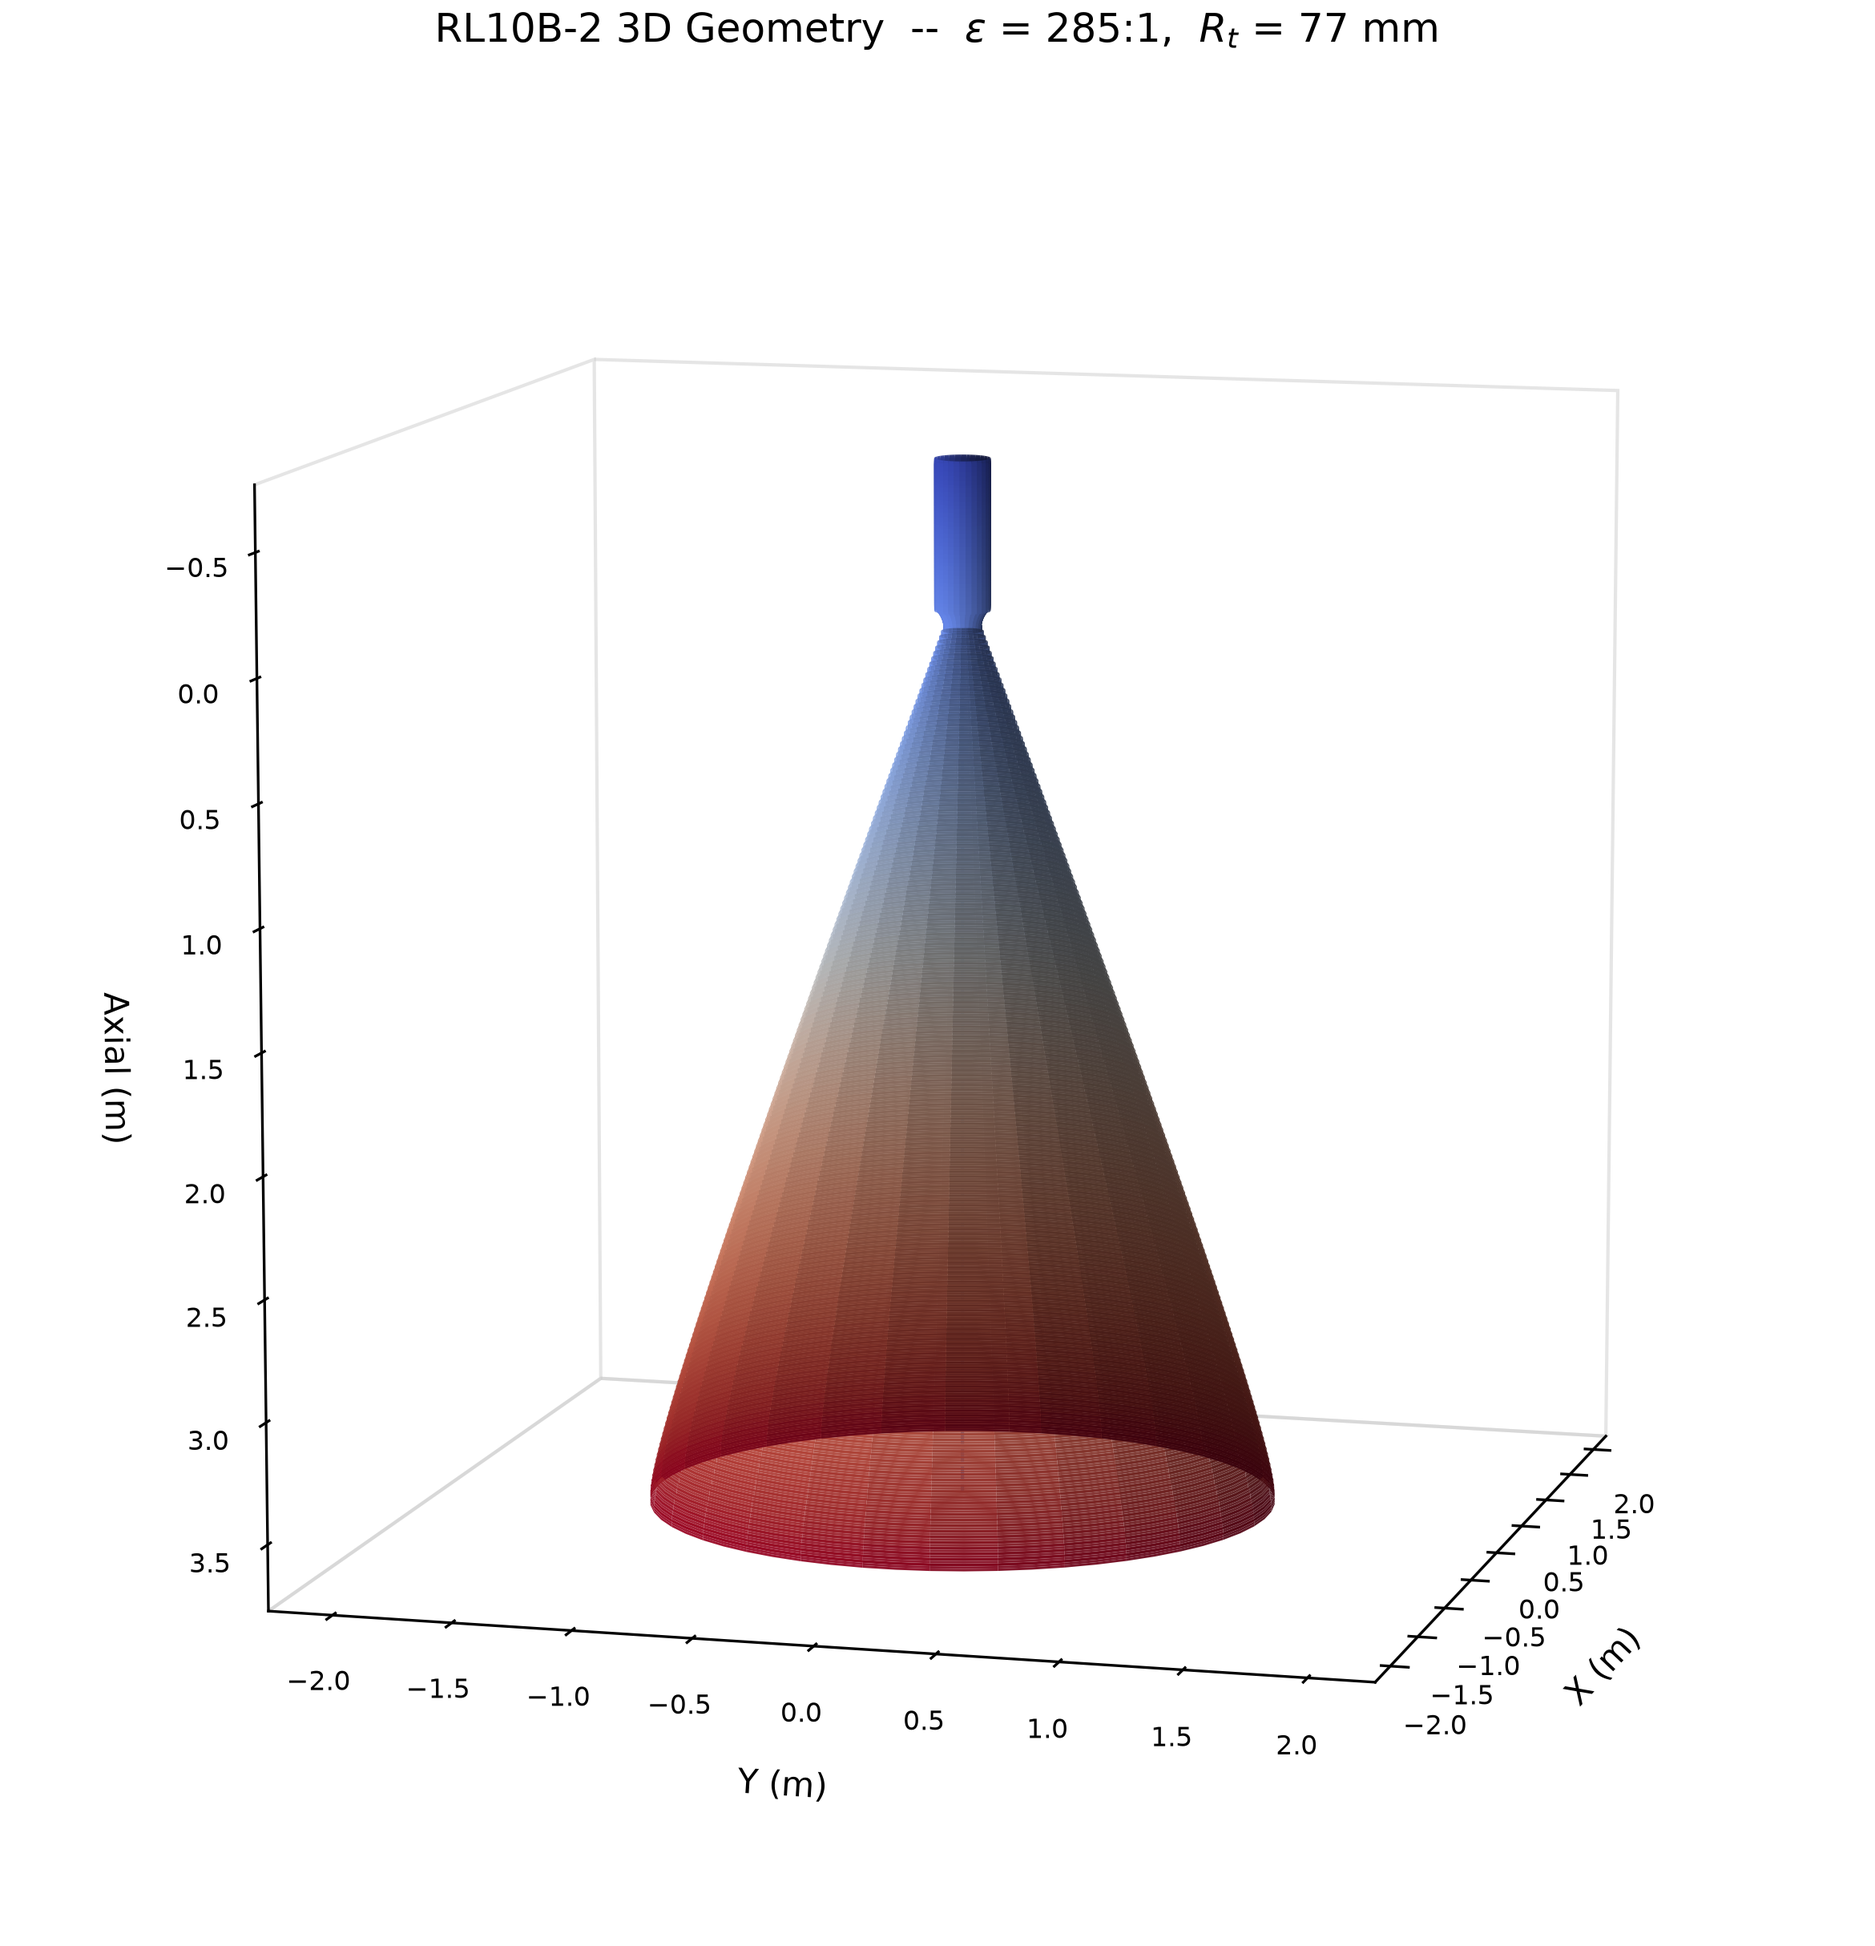
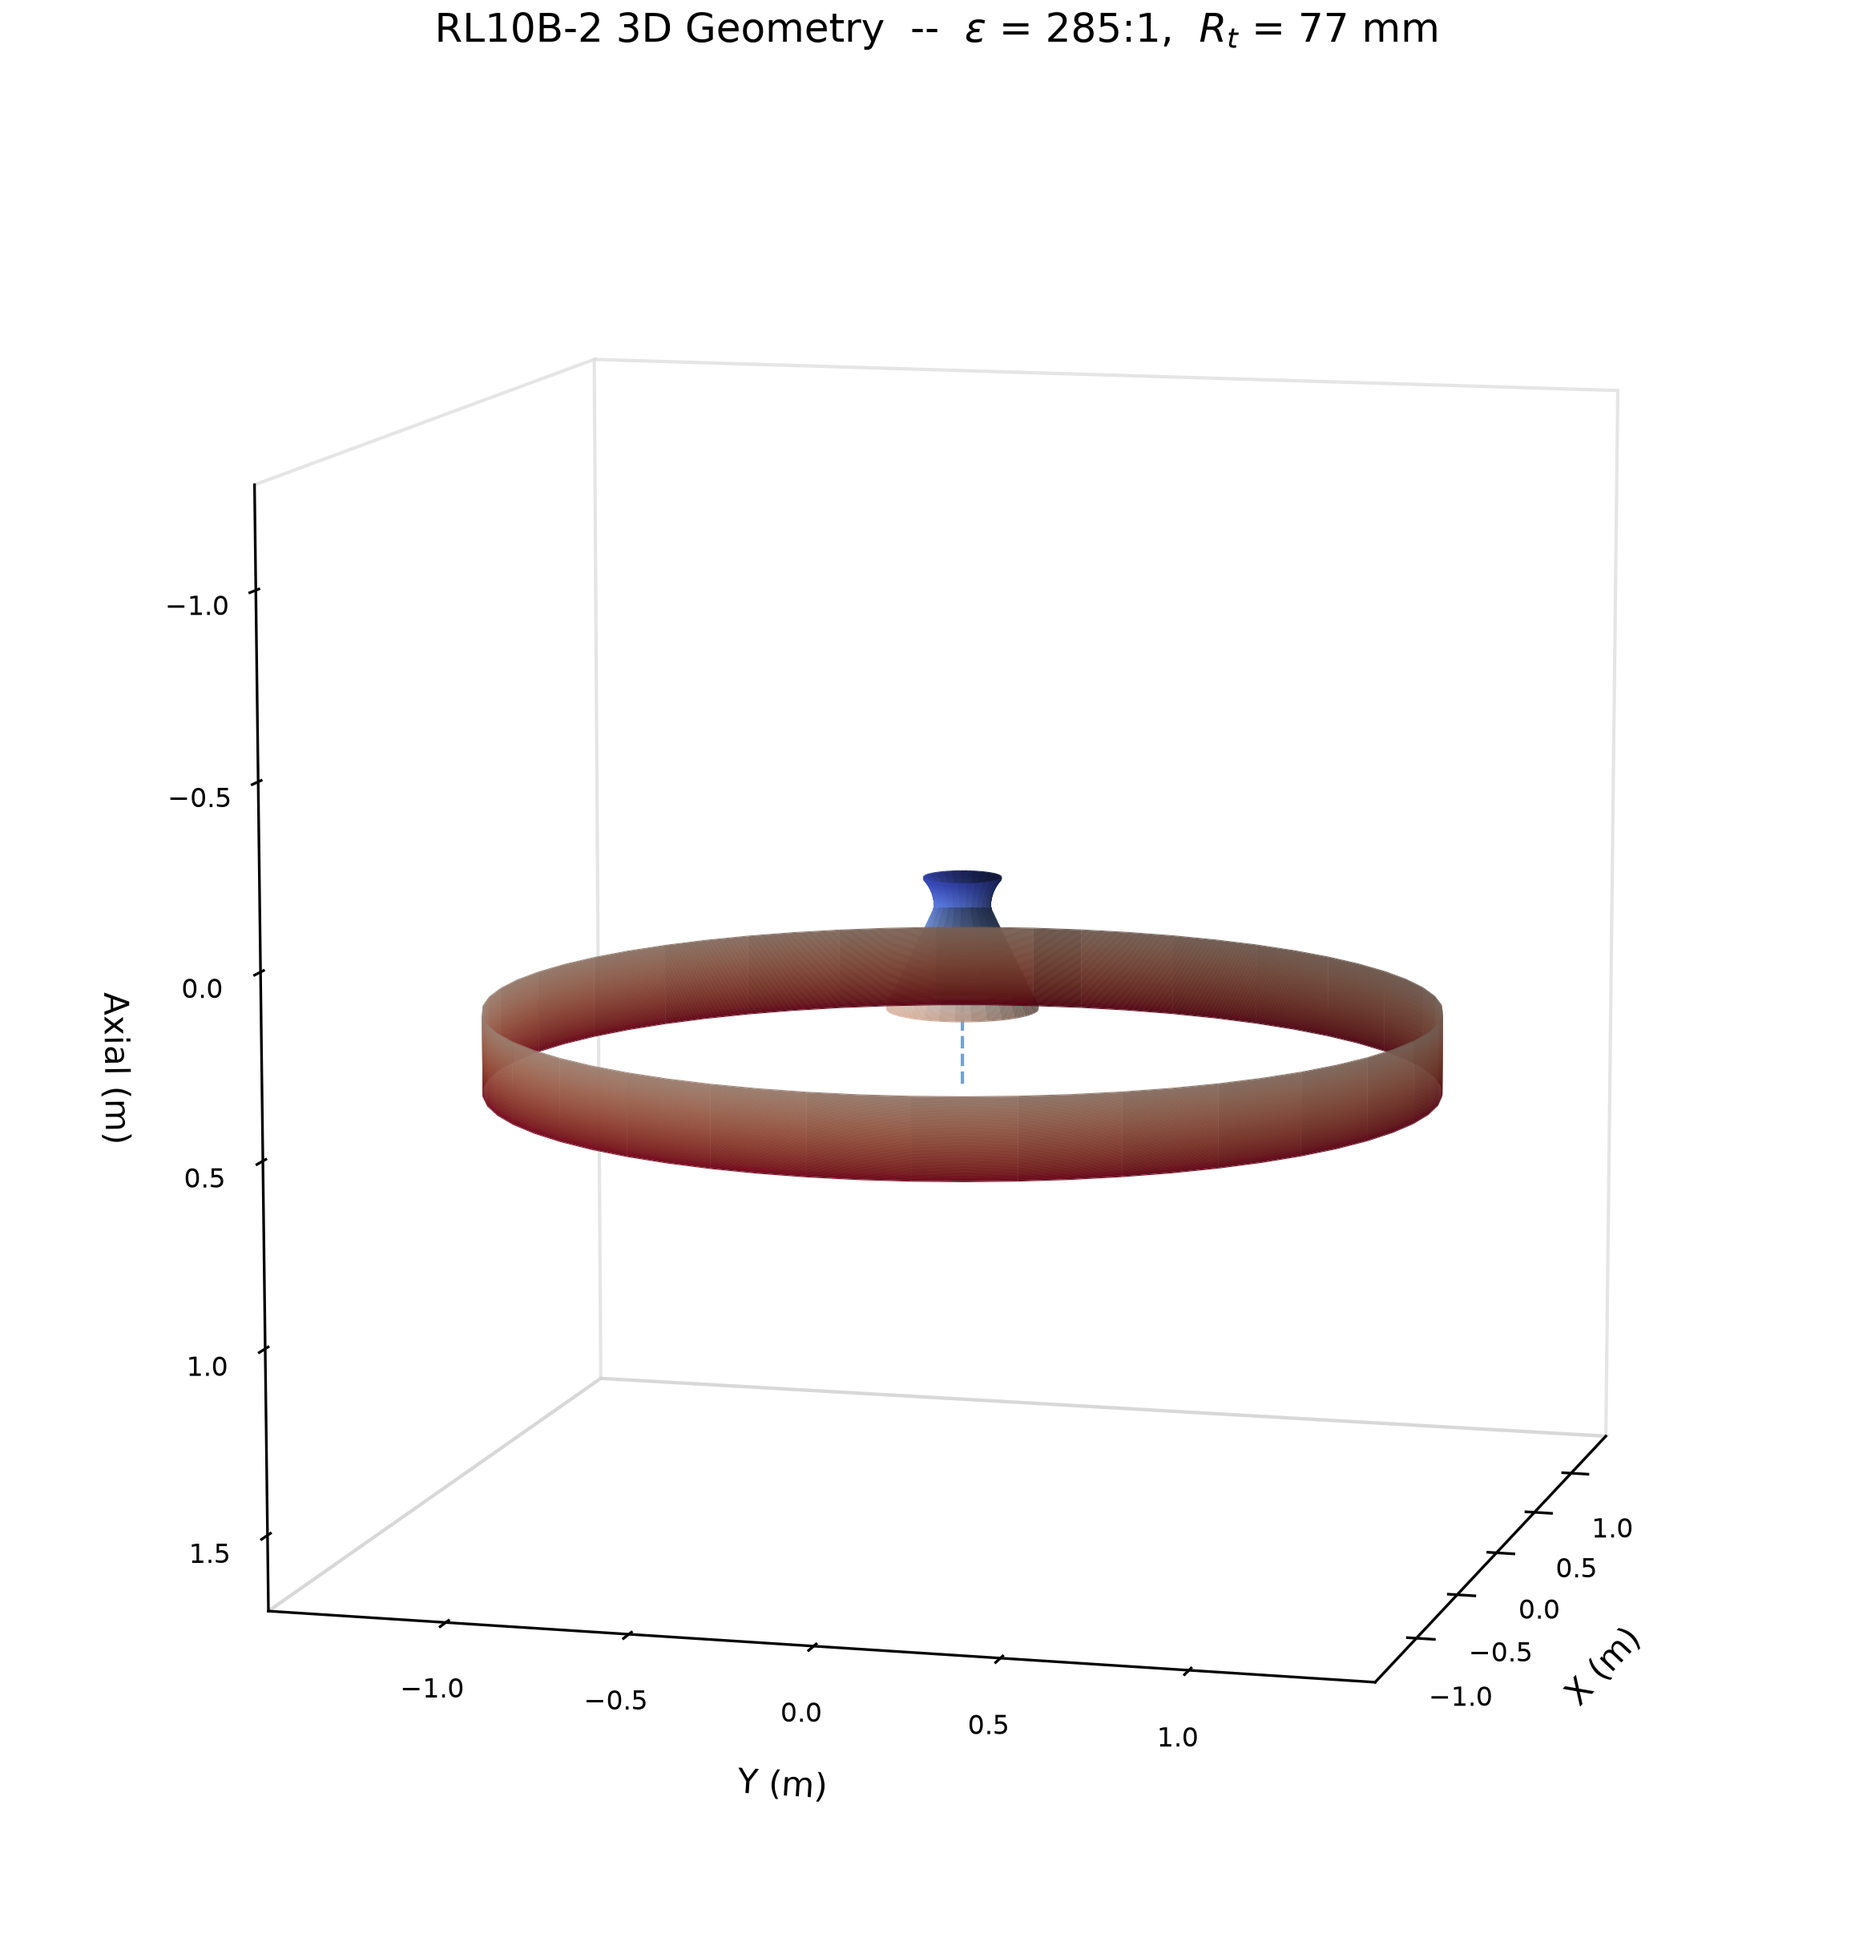
fix: geometry save paths + RS-25/RL10B-2 geometry fix
- Geometry now saves to docs/assets/images/{engine}/geometry/
- RS-25: ld=0.7 -> ld=None (uses preset 2.0m diverging length)
- RL10B-2: ld=1.5 -> ld=None (uses preset 2.5m diverging length)
- Cleaned up old geometry files from parent directory
- Regenerated all 4 engine geometry plots

diff --git a/src/pipeline/engine_config.py b/src/pipeline/engine_config.py
@@ -77,20 +77,24 @@ class EngineConfig:
     @property
     def images_dir(self) -> str:
         """Images directory for plots."""
-        return f"docs/assets/images/{self.name}"
+        return f"docs/assets/images/{self.name}/geometry"
 
     def nozzle_config(self) -> NozzleConfig:
-        """Build NozzleConfig from engine preset and overrides."""
+        """Build NozzleConfig from engine preset and overrides.
+
+        Uses preset's diverging_length when ld is None, otherwise uses ld override.
+        """
         base = self.preset_fn()
+        ld = self.ld if self.ld is not None else base.diverging_length
         return NozzleConfig(
             throat_radius=base.throat_radius,
             expansion_ratio=base.expansion_ratio,
             converging_length=base.converging_length,
-            diverging_length=self.ld,
+            diverging_length=ld,
             chamber_length=0,
             throat_radius_of_curvature=0,
             theta_n=self.theta_n,
             theta_e=0.0,
             nozzle_length_fraction=0,
-            num_points=200,
+            num_points=300,
         )

diff --git a/run_rl10b2.py b/run_rl10b2.py
@@ -17,7 +17,7 @@ CONFIG = EngineConfig(
     total_pressure=4.2e6,
     total_temperature=2200.0,
     theta_n=25,
-    ld=1.5,
+    ld=None,  # Use preset diverging_length (2.5m)
     euler_n_axial=120,
     euler_n_normal=60,
     euler_cfl=0.03,

diff --git a/run_rs25.py b/run_rs25.py
@@ -17,7 +17,7 @@ CONFIG = EngineConfig(
     total_pressure=20.6e6,
     total_temperature=3570.0,
     theta_n=30,
-    ld=0.7,
+    ld=None,  # Use preset diverging_length (2.0m)
     euler_n_axial=80,
     euler_n_normal=40,
     euler_cfl=0.05,
